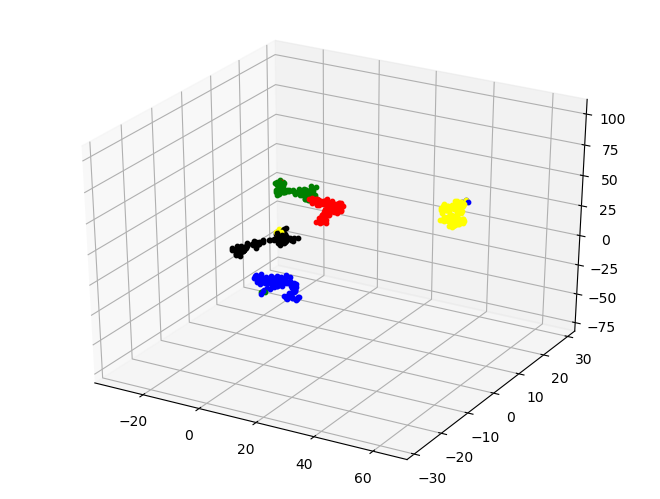
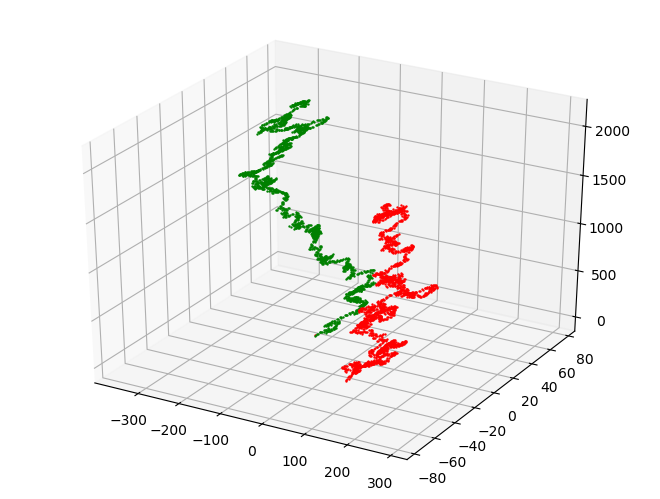
start  work with chains

diff --git a/Polymer/src/chain.py b/Polymer/src/chain.py
@@ -37,18 +37,22 @@ class Chain:
     # Создает новую молекулу
     # TODO можно сразу генерировать в нужном месте, чтобы потом не проверять и заново генерировать
     def generate(self) -> Bead:
-        phi: float = random.random()
-        theta: float = random.random()
-
-        # TODO проверить формулу
-        x: float = self.beads[-1].x + C_C_length * math.sin(2 * math.pi * theta) * math.sin(2 * math.pi * phi)
-        y: float = self.beads[-1].y + C_C_length * math.sin(2 * math.pi * theta) * math.cos(2 * math.pi * phi)
-        z: float = self.beads[-1].z + C_C_length * math.cos(2 * math.pi * theta)
+        maxLen = round(C_C_length + 2 * polymer_input.r)
+        x: float = random.randint(self.beads[-1].x - maxLen,
+                                  self.beads[-1].x + maxLen)
+        maxLen = round(math.sqrt(round(C_C_length + 2 * polymer_input.r) ** 2 - (x - self.beads[-1].x) ** 2))
+        y: float = random.randint(self.beads[-1].y - maxLen,
+                                  self.beads[-1].y + maxLen)
+        kostyl = round(C_C_length + 2 * polymer_input.r) ** 2 - (x - self.beads[-1].x) ** 2 - (y - self.beads[-1].y) ** 2
+        if kostyl < 0:
+            kostyl += 1
+        z: float = round(math.sqrt(round(kostyl)) + self.beads[-1].z)
 
         return Bead(x, y, z)
 
     # TODO сделать проверку соседей не только для текущей цепи, а для всех уже построенных
     # Проверяет, можно ли поставить молекулу с таким углом к двум предыдущим
+
     def check_angle(self, c: Bead) -> bool:
         if self.chain_length <= 1:
             return True
@@ -72,8 +76,8 @@ class Chain:
             return True
         else:
             return False
+        # Получает молекул, которые задевает bead
 
-    # Получает молекул, которые задевает bead
     def get_neighbor_count(self, bead: Bead) -> int:
         neighbor_count = 0
         for i in self.beads:
@@ -86,11 +90,15 @@ class Chain:
 
         return neighbor_count
 
-    # Перекрывает ли молекула соседей
+
+        # Перекрывает ли молекула соседей
+
     def are_neighbors_exist(self, bead: Bead) -> bool:
         return self.get_neighbor_count(bead) != 0
 
-    # Проверяет не зашли ли за границу коробки
+
+        # Проверяет не зашли ли за границу коробки
+
     def check_border(self, bead: Bead) -> bool:
         x = abs(abs(self.beads[-1].x) - abs(bead.x)) < polymer_input.box_x / 2
         y = abs(abs(self.beads[-1].y) - abs(bead.y)) < polymer_input.box_y / 2
@@ -101,7 +109,8 @@ class Chain:
         else:
             return False
 
-    # Записывает цепочку в файл *.pdb (пока что неправильно)
+            # Записывает цепочку в файл *.pdb (пока что неправильно)
+
     def write_to_file(self):
         f = open(os.getcwd() + str(polymer_input.bead_number) + '_' + str(polymer_input.chain_number) + '.pdb', 'a')
 
@@ -121,8 +130,11 @@ class Chain:
 
         f.close()
 
-    # TODO переписать
+
+        # TODO переписать
+
     @staticmethod
+
     def plot_chain_with_args(args):
         (bead_number, C_in_tubes, C_coord_x, C_coord_y, C_coord_z) = args
         color = ['red', 'green', 'blue', 'yellow', 'black', 'pink']
@@ -139,7 +151,8 @@ class Chain:
 
         fig.savefig('chain.png', bbox_inches='tight')
 
-    # TODO ???
+        # TODO ???
+
     def add_hydrogen(self):
         pass
         # for j in range(len(self.beads)):

diff --git a/Polymer/src/input.py b/Polymer/src/input.py
@@ -14,10 +14,10 @@ class Input:
         self.nanotube_number = 10 # кол-во нанотрубок,ввод пока что убрал
 
         # TODO ???
-        self.bead_number = 200 # максимум молекул в цепочке
-        self.chain_number = 2  # количество цепочек
+        self.bead_number = 2000 # максимум молекул в цепочке
+        self.chain_number = 2 # количество цепочек
         self.temp = 300  # температура
-        self.r = 3  # радиус молекулы
+        self.r = 0.5  # радиус молекулы
 
     # TODO переместить весь код снизу сюда
     def request_input(self):

diff --git a/Polymer/src/main.py b/Polymer/src/main.py
@@ -5,7 +5,7 @@ from src.bead import Bead
 from src.chain import Chain
 from src.input import polymer_input
 
-TIME_TO_WAIT = 1  # Сколько времени можно дать, для поиска места новой молекулы в цепочке в секундах
+TIME_TO_WAIT = 60  # Сколько времени можно дать, для поиска места новой молекулы в цепочке в секундах
 
 
 def main():
